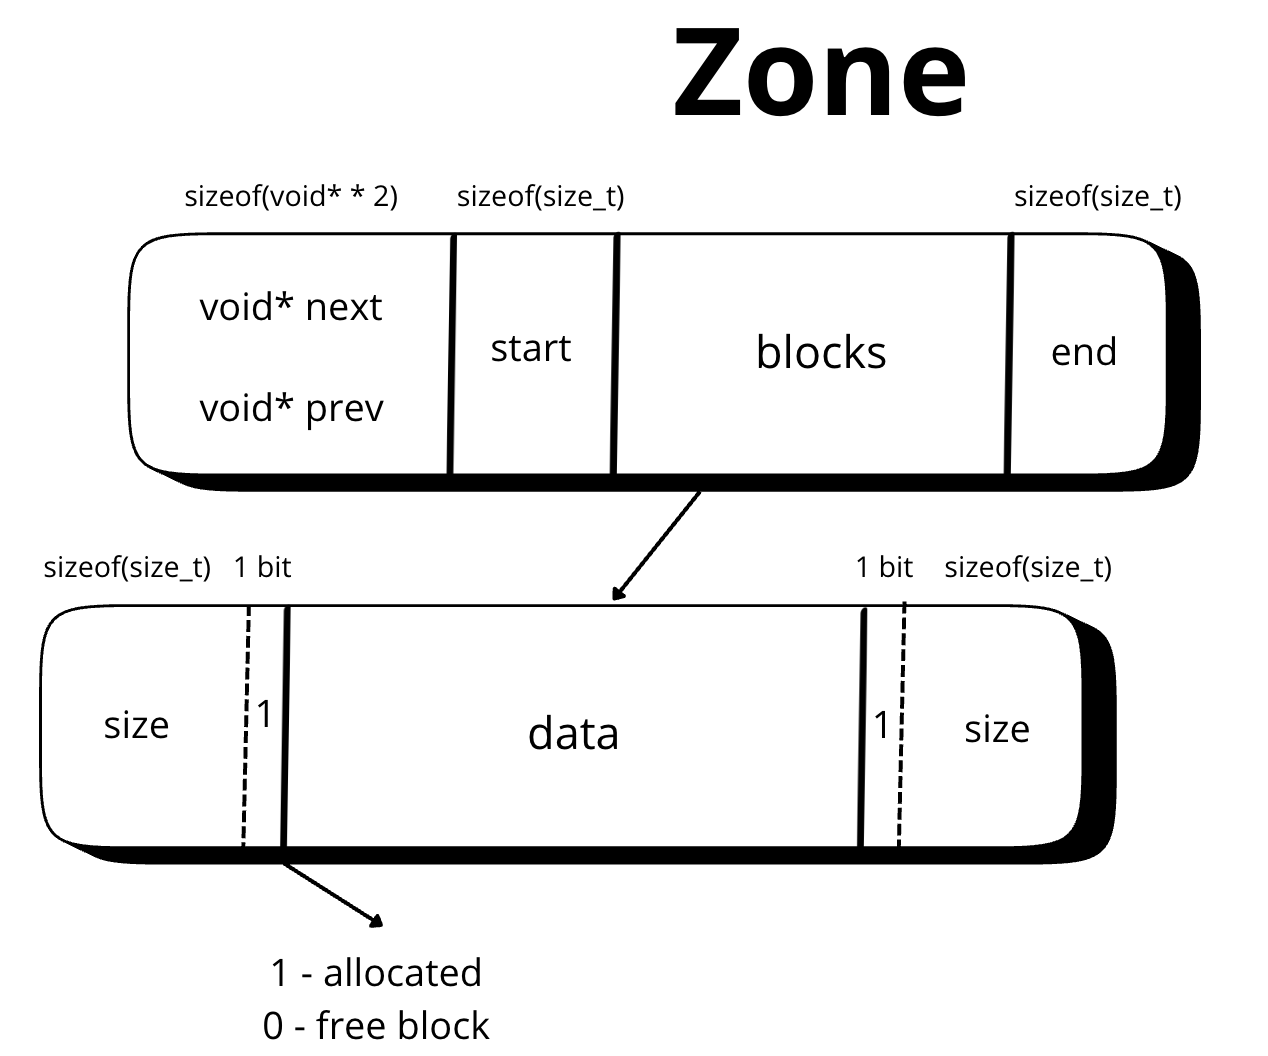
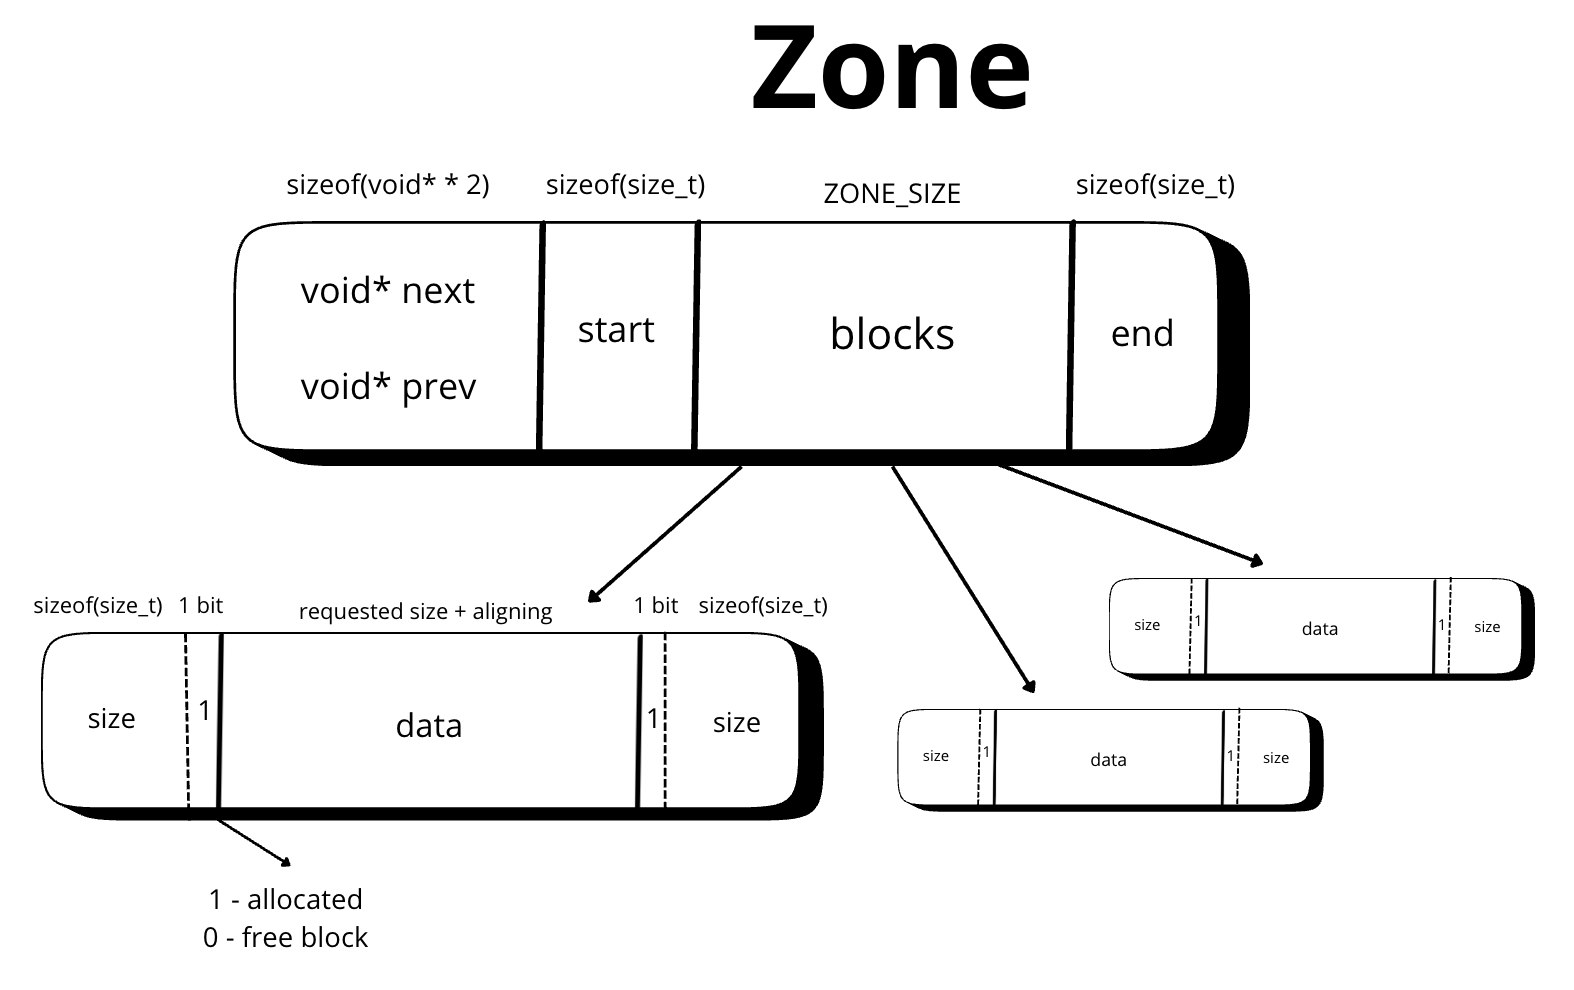
chore: add zone diagram

diff --git a/tests/test_malloc.c b/tests/test_malloc.c
@@ -78,10 +78,10 @@ void test_malloc()
         }
     }
 
-    for (int i = 0; i < num_allocations; i++)
-    {
-        free(allocations[i]);
-    }
+    // for (int i = 0; i < num_allocations; i++)
+    // {
+    //     free(allocations[i]);
+    // }
 
     printf("All tests passed!\n");
 }
@@ -89,5 +89,6 @@ void test_malloc()
 int main()
 {
     test_malloc();
+    show_alloc_mem();
     return 0;
 }

diff --git a/README.md b/README.md
@@ -1,5 +1,6 @@
-## Malloc's Heap
+## Malloc's Heap (Tiny and Small zones)
 
+For each request that is > SMALL, a syscall to mmap is performed
 ![Zone scheme](/zone.png)
 
 ## Compile tests
@@ -11,11 +12,17 @@
 1. mmap - request memory from os
 2. munmap - return memory to os
 
+## Features
+
+1. Coalescing
+2. Arenas for small allocations
+
 ## Possible improvements
 
 1. A linked list of free blocks to reduce search time
 2. A global variable that points to the last large zone allocation to reduce search time
 3. Carefully chosen zone sizes to find good compromise between space and speed
+4. Remove tiny and small zones once empty
 
 ## The memory translation process
 
